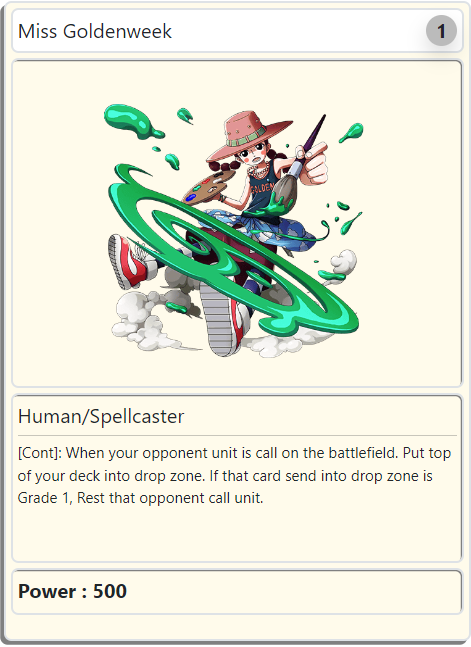
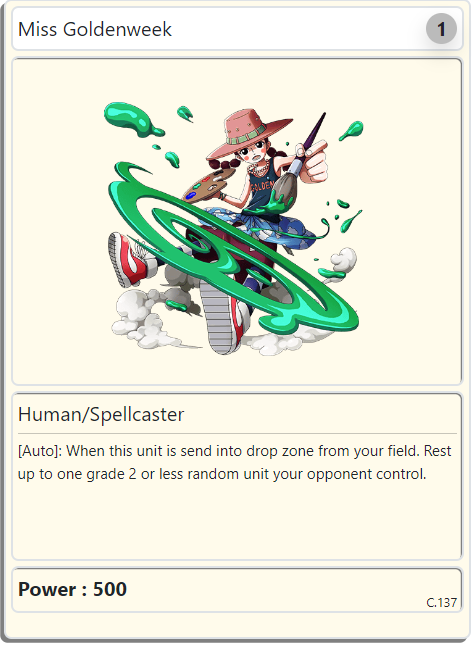
C137

diff --git a/src/views/arena/new-arena/index.vue b/src/views/arena/new-arena/index.vue
@@ -883,7 +883,8 @@ export default {
         data.unit.card.code === '118' ||
         data.unit.card.code === '119' ||
         data.unit.card.code === '120' ||
-        data.unit.card.code === '121'
+        data.unit.card.code === '121' ||
+        data.unit.card.code === '136'
       ) {
         data.option.act = 'ACT'
       }
@@ -2244,12 +2245,12 @@ export default {
       data.unitB2 = data.back.unitB2
       data.unitB3 = data.back.unitB3
       const units = []
-      if (data.unitF1.isUnit && data.unitF1.position === 'Stand') { units.push({ location: 'unit F1' }) }
-      if (data.unitF2.isUnit && data.unitF2.position === 'Stand') { units.push({ location: 'unit F2' }) }
-      if (data.unitF3.isUnit && data.unitF3.position === 'Stand') { units.push({ location: 'unit F3' }) }
-      if (data.unitB1.isUnit && data.unitB1.position === 'Stand') { units.push({ location: 'unit B1' }) }
-      if (data.unitB2.isUnit && data.unitB2.position === 'Stand') { units.push({ location: 'unit B2' }) }
-      if (data.unitB3.isUnit && data.unitB3.position === 'Stand') { units.push({ location: 'unit B3' }) }
+      if (data.unitF1.isUnit && data.unitF1.card.grade <= data.grade && data.unitF1.position === 'Stand') { units.push({ location: 'unit F1' }) }
+      if (data.unitF2.isUnit && data.unitF2.card.grade <= data.grade && data.unitF2.position === 'Stand') { units.push({ location: 'unit F2' }) }
+      if (data.unitF3.isUnit && data.unitF3.card.grade <= data.grade && data.unitF3.position === 'Stand') { units.push({ location: 'unit F3' }) }
+      if (data.unitB1.isUnit && data.unitB1.card.grade <= data.grade && data.unitB1.position === 'Stand') { units.push({ location: 'unit B1' }) }
+      if (data.unitB2.isUnit && data.unitFB2.card.grade <= data.grade && data.unitB2.position === 'Stand') { units.push({ location: 'unit B2' }) }
+      if (data.unitB3.isUnit && data.unitB3.card.grade <= data.grade && data.unitB3.position === 'Stand') { units.push({ location: 'unit B3' }) }
       if (units.length > 0) {
         const index = Math.floor(Math.random() * units.length)
         if (data.todo === 'destroy') {
@@ -2617,6 +2618,7 @@ export default {
       if (data.unit.card.code === '077') { this.EFF077(data) }
       if (data.unit.card.code === '115') { this.EFF115(data) }
       if (data.unit.card.code === '123') { this.EFF123(data) }
+      if (data.unit.card.code === '137') { this.EFF137(data) }
       this.AUTO_UNIT_DESTROY_ON_HAND(data)
     },
     AUTO_UNIT_DESTROY_ON_HAND (data) {
@@ -2898,6 +2900,7 @@ export default {
         if (data.unit.card.code === '119') { this.EFF119(data) }
         if (data.unit.card.code === '120') { this.EFF120_ACT(data) }
         if (data.unit.card.code === '121') { this.EFF121(data) }
+        if (data.unit.card.code === '136') { this.EFF136(data) }
         data.unit.onePerTurn = true
       }
     },
@@ -5081,6 +5084,7 @@ export default {
       data.cost = 'pay life'
       data.pay = 500
       this.COST(data)
+      data.grade = 2
       data.todo = 'rest'
       this.RANDOM_FIELD_OP_WITH_STAND_UNIT(data)
     },
@@ -5720,6 +5724,19 @@ export default {
       } else {
         this.Toast('error', 'Tidak ada kartu untuk discard !!!')
       }
+    },
+    EFF136 (data) { // Galdino "Mr 3"
+      data.cost = 'pay life'
+      data.pay = 500
+      this.COST(data)
+      data.grade = 2
+      data.todo = 'rest'
+      this.RANDOM_FIELD_OP_WITH_STAND_UNIT(data)
+    },
+    EFF137 (data) { // Miss Goldenweek
+      data.grade = 2
+      data.todo = 'rest'
+      this.RANDOM_FIELD_OP_WITH_STAND_UNIT(data)
     }
   },
   created () {

diff --git a/src/views/index.vue b/src/views/index.vue
@@ -2492,7 +2492,8 @@ export default {
                 job: 'Fighter',
                 special: ''
               },
-              text: '[Act]: If you control "Wapol" and "Chess" unit. Put this unit to drop zone. Choose "Chess" your control and put that unit to drop zone. Seacrh your deck. Call up to one "Chessmarimo" from your deck. Shuffle your deck.',
+              text: '[Auto]: When this unit is placed on battlefield. Add up to one "Chessmarimo" from your deck into your hand, then shuffle your deck.',
+              // text: '[Act]: If you control "Wapol" and "Chess" unit. Put this unit to drop zone. Choose "Chess" your control and put that unit to drop zone. Seacrh your deck. Call up to one "Chessmarimo" from your deck. Shuffle your deck.',
               power: 500,
               code: '140'
             },
@@ -2506,7 +2507,8 @@ export default {
                 job: 'Archer',
                 special: ''
               },
-              text: '[Act]: If you control "Wapol" and "Kuromarimo" unit. Put this unit to drop zone. Choose "Kuromarimo" your control and put that unit to drop zone. Seacrh your deck. Call up to one "Chessmarimo" from your deck. Shuffle your deck.',
+              text: '[Auto]: When this unit is placed on battlefield. Add up to one "Wapol" from your deck into your hand, then shuffle your deck.',
+              // text: '[Act]: If you control "Wapol" and "Kuromarimo" unit. Put this unit to drop zone. Choose "Kuromarimo" your control and put that unit to drop zone. Seacrh your deck. Call up to one "Chessmarimo" from your deck. Shuffle your deck.',
               power: 500,
               code: '139'
             },
@@ -2521,6 +2523,7 @@ export default {
                 special: 'Paramecia'
               },
               text: '[Act][1/Turn]: Search your deck. Call up to one "Chess" or "Kuromarimo" from your deck. Shuffle your deck.',
+              // text: '[Act][1/Turn]: Search your deck. Call up to one "Chess" or "Kuromarimo" from your deck. Shuffle your deck.',
               power: 500,
               code: '138'
             },
@@ -2534,8 +2537,7 @@ export default {
                 job: 'Spellcaster',
                 special: ''
               },
-              text: '',
-              // text: '[Cont]: When your opponent unit is call on the battlefield. Put top of your deck into drop zone. If that card send into drop zone is Grade 1, Rest that opponent call unit.',
+              text: '[Auto]: When this unit is send into drop zone from your field. Rest up to one grade 2 or less random unit your opponent control.',
               power: 500,
               code: '137'
             },
@@ -2549,8 +2551,7 @@ export default {
                 job: 'Swordman',
                 special: 'Paramecia'
               },
-              text: '[Act][1/Turn]: Pay 500 life points. Choose up to one grade 2 or less your opponent unit and rest that unit.',
-              // text: '[Auto]: When this unit block. Pay 500 life points. Rest a random unit your opponent control.',
+              text: '[Act][1/Turn]: Pay 500 life points. Rest up to one grade 2 or less random unit your opponent control.',
               power: 1500,
               code: '136'
             },
